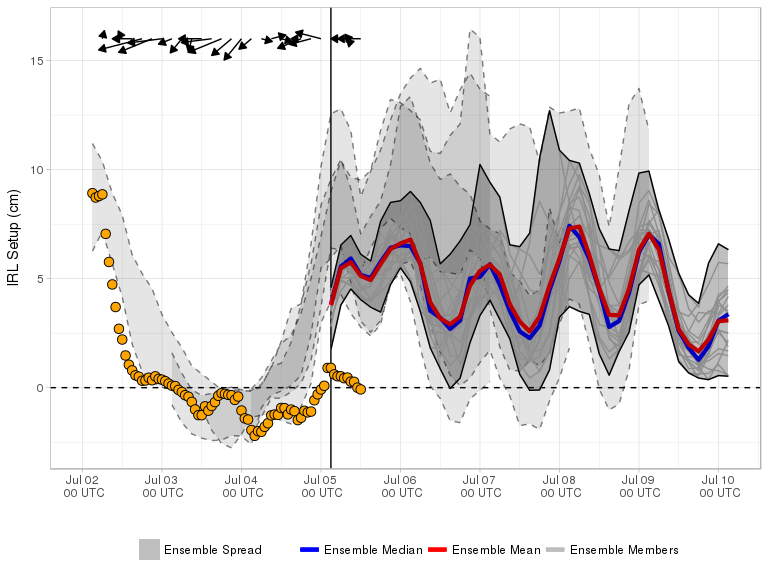
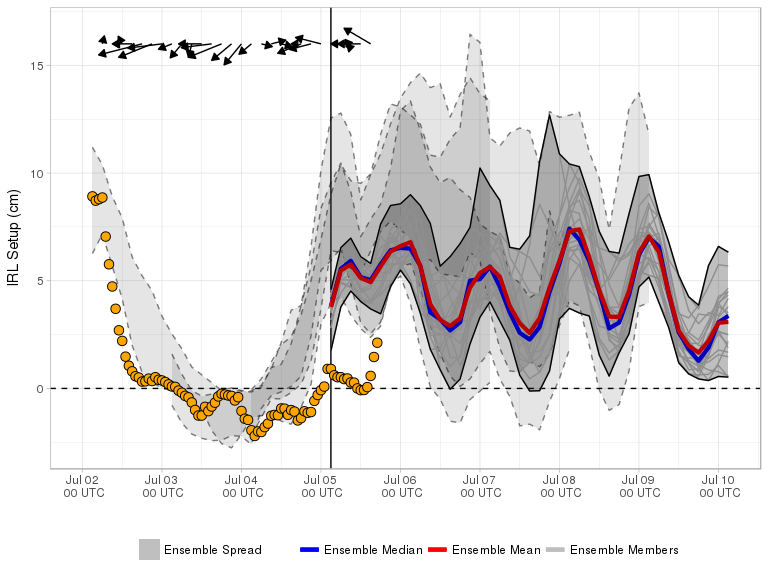
Stat archive added

diff --git a/docs/index.md b/docs/index.md
@@ -3,7 +3,7 @@ Current Forecast
 
 [![](img/raw_setup.png)](https://fit-winds.github.io/IRLSetup/img/raw_setup.png)
 
-> Forecast valid 2018-07-05 08:21:52.
+> Forecast valid 2018-07-05 13:23:57.
 
 Explanation
 -----------
